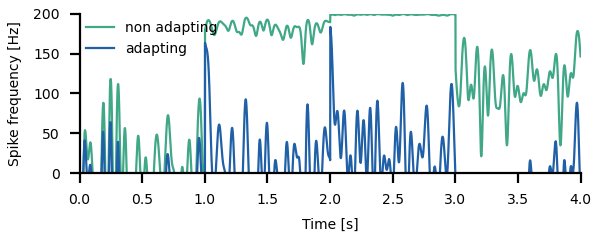
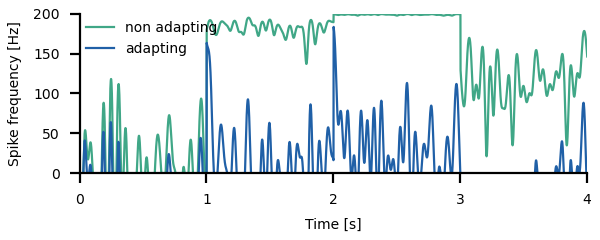
[meanvariance] adaptation to mean stimulus

diff --git a/meanvariance/meanvarianceplots.py b/meanvariance/meanvarianceplots.py
@@ -27,19 +27,29 @@ def plot_meanstimulus():
     ax.set_ylim(-1.5, 7.5)
     ax.set_xlabel('Time [s]')
     ax.set_ylabel('Stimulus')
+    ax.xaxis.set_major_locator(ticker.MultipleLocator(1.0))
     fig.savefig('meanvariance-meanstimulus')
     # response:
-    rate0, _ = mv.adaptation(time, stimulus, alpha=0.0, taua=0.5)
-    rate, _ = mv.adaptation(time, stimulus, alpha=0.2, taua=0.5)
-    # plot:
+    rate0, adapt0 = mv.adaptation(time, stimulus, alpha=0.0, taua=0.5)
+    rate, adapt = mv.adaptation(time, stimulus, alpha=0.2, taua=0.5)
+    # plot rate:
     fig, ax = plt.subplots(figsize=(figwidth, 0.4*figwidth))
     ax.plot(time, rate0, color=colors['cyan'], label='non adapting')
     ax.plot(time, rate, color=colors['blue'], label='adapting')
     ax.set_ylim(0.0, 200.0)
     ax.set_xlabel('Time [s]')
     ax.set_ylabel('Spike frequency [Hz]')
+    ax.xaxis.set_major_locator(ticker.MultipleLocator(1.0))
     ax.legend(loc='upper left')
     fig.savefig('meanvariance-meanresponse')
+    # plot adaptation:
+    fig, ax = plt.subplots(figsize=(figwidth, 0.4*figwidth))
+    ax.plot(time, adapt, color=colors['red'], label='adapting')
+    ax.set_ylim(0.0, 8.0)
+    ax.set_xlabel('Time [s]')
+    ax.set_ylabel('Adaptation')
+    ax.xaxis.set_major_locator(ticker.MultipleLocator(1.0))
+    fig.savefig('meanvariance-meanadapt')
     
         
 if __name__ == "__main__":

diff --git a/meanvariance/meanvariance.py b/meanvariance/meanvariance.py
@@ -141,9 +141,9 @@ def plot_meanstimulus(axs, axr):
         mean[(time>k*T) & (time<=(k+1)*T)] += m
     stimulus += mean
     # response of non adapting neuron:
-    rate0, _ = adaptation(time, stimulus, alpha=0.0, taua=0.5)
+    rate0, adapt0 = adaptation(time, stimulus, alpha=0.0, taua=0.5)
     # response of adapting neuron:
-    rate, _ = adaptation(time, stimulus, alpha=0.2, taua=0.5)
+    rate, adapt = adaptation(time, stimulus, alpha=0.2, taua=0.5)
     # plot:
     axs.plot(time, stimulus)
     axs.set_xlabel('Time [s]')

diff --git a/meanvariance/README.md b/meanvariance/README.md
@@ -43,11 +43,11 @@ ax.plot(time, mean)
 Compute the spike-frequency response of a non-adaptating neuron
 (&#120572; = 0)
 ``` py
-rate0, _ = adaptation(time, stimulus, alpha=0.0, taua=0.5)
+rate0, adapt0 = adaptation(time, stimulus, alpha=0.0, taua=0.5)
 ```
 and of a strongly adapting neuron (&#120572; = 0.2) to this stimulus
 ``` py
-rate, _ = adaptation(time, stimulus, alpha=0.2, taua=0.5)
+rate, adapt = adaptation(time, stimulus, alpha=0.2, taua=0.5)
 ```
 and plot the resulting spike frequencies:
 
@@ -62,6 +62,11 @@ the stimuls mean switches to higher values, the neuron transiently
 responds with a high spike frequency that then decays to lower levels.
 When the mean is switched to lower values, the neuron ceases firing
 until it recovers from adaptation.
+
+The adaptation variable quickly adapts to the new mean values and then fluctuates
+only slightly around the new value. Recovery from adaptation takes much longer.
+
+![meanadapt](meanvariance-meanadapt.png)
 
 
 ## Computing the amplitude modulation
